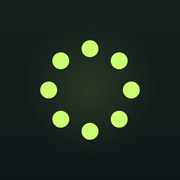
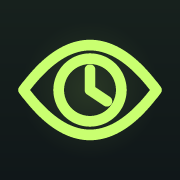
feat: finish website redesign

Changed region(s): [[0.0833, 0.1944, 0.9167, 0.8056]]

diff --git a/website/install.html b/website/install.html
@@ -1,13 +1,13 @@
 <!doctype html><html lang="en"><head>
-  <meta charset="utf-8"><meta name="viewport" content="width=device-width,initial-scale=1"><title>Install EyeRest — Sign and install the unsigned IPA</title><meta name="description" content="Download EyeRest's unsigned IPA, verify its SHA-256, then sign and install it on an iOS 17 or later iPhone using a tool you trust."><link rel="canonical" href="http://astear17.sino.tw/EyeRest/install.html">
-  <meta property="og:type" content="website"><meta property="og:title" content="Install EyeRest"><meta property="og:description" content="A careful guide to verifying, signing, and installing the unsigned EyeRest IPA."><meta property="og:url" content="http://astear17.sino.tw/EyeRest/install.html"><meta property="og:image" content="http://astear17.sino.tw/EyeRest/assets/og-image.png"><meta name="twitter:card" content="summary_large_image"><meta name="twitter:title" content="Install EyeRest"><meta name="twitter:description" content="Verify, sign, and install EyeRest's unsigned IPA."><meta name="twitter:image" content="http://astear17.sino.tw/EyeRest/assets/og-image.png">
+  <meta charset="utf-8"><meta name="viewport" content="width=device-width,initial-scale=1"><title>Install EyeRest — Sign and install the unsigned IPA</title><meta name="description" content="Download EyeRest's unsigned IPA, verify its SHA-256, then sign and install it on an iOS 17 or later iPhone using a tool you trust."><link rel="canonical" href="https://astear17.sino.tw/EyeRest/install.html">
+  <meta property="og:type" content="website"><meta property="og:title" content="Install EyeRest"><meta property="og:description" content="A careful guide to verifying, signing, and installing the unsigned EyeRest IPA."><meta property="og:url" content="https://astear17.sino.tw/EyeRest/install.html"><meta property="og:image" content="https://astear17.sino.tw/EyeRest/assets/og-image.png"><meta name="twitter:card" content="summary_large_image"><meta name="twitter:title" content="Install EyeRest"><meta name="twitter:description" content="Verify, sign, and install EyeRest's unsigned IPA."><meta name="twitter:image" content="https://astear17.sino.tw/EyeRest/assets/og-image.png">
   <meta name="theme-color" content="#101719"><link rel="icon" href="assets/favicon.svg" type="image/svg+xml"><link rel="apple-touch-icon" href="assets/apple-touch-icon.png"><link rel="preload" href="assets/fonts/dm-sans-latin.woff2" as="font" type="font/woff2" crossorigin><script>document.documentElement.dataset.theme=localStorage.getItem("eyerest-theme")||((matchMedia("(prefers-color-scheme: light)").matches)?"light":"dark")</script><link rel="stylesheet" href="assets/styles.css">
 </head><body><a class="skip-link" href="#main">Skip to content</a><header class="site-header"><div class="shell header-inner"><a class="brand" href="index.html" aria-label="EyeRest home"><span class="brand-mark" aria-hidden="true"></span>EyeRest</a><nav class="site-nav" data-navigation data-open="false" aria-label="Primary navigation"><a href="index.html">Overview</a><a href="install.html" aria-current="page">Install</a><a href="privacy.html">Privacy</a><a href="terms.html">Terms</a><a href="https://github.com/Astear17/EyeRest">GitHub</a></nav><div class="header-tools"><button class="icon-button theme-toggle" data-theme-toggle type="button" aria-label="Use light theme" aria-pressed="false"><svg viewBox="0 0 24 24" aria-hidden="true"><path d="M12 3v2m0 14v2M3 12h2m14 0h2M5.6 5.6 7 7m10 10 1.4 1.4M18.4 5.6 17 7M7 17l-1.4 1.4"/><circle cx="12" cy="12" r="4"/></svg></button><button class="icon-button menu-toggle" data-menu-toggle type="button" aria-label="Open navigation" aria-expanded="false"><svg viewBox="0 0 24 24" aria-hidden="true"><path d="M4 7h16M4 12h16M4 17h16"/></svg></button></div></div></header>
 <main id="main"><header class="page-hero"><div class="shell"><p class="eyebrow">Install outside the App Store</p><h1>Sign it yourself.<br><span class="serif">Keep control.</span></h1><p class="lede">EyeRest is not on the App Store and will not be. Releases contain an unsigned IPA: a packaged app that cannot run on your iPhone until you sign it with a tool and profile you trust.</p></div></header>
 <article class="prose narrow"><h2>Before you begin</h2><div class="callout"><p><strong>Unsigned means not ready to install.</strong></p><p>The release file contains the built EyeRest app but no usable device signature or provisioning profile. Never install a file whose source or SHA-256 you cannot verify.</p></div>
   <h2>1. Download the release</h2><div class="download-card"><div><h3>Latest EyeRest release</h3><p>Download <strong>EyeRest-unsigned.ipa</strong> and its matching <strong>.sha256</strong> file from GitHub Releases.</p></div><a class="button button-primary" href="https://github.com/Astear17/EyeRest/releases/latest">Open latest release</a></div>
   <h2>2. Verify SHA-256</h2><p>Calculate the IPA's SHA-256 locally and compare every character with the value in the downloaded <code>.sha256</code> file.</p><h3>macOS or Linux</h3><code class="code">shasum -a 256 EyeRest-unsigned.ipa</code><h3>Windows PowerShell</h3><code class="code">Get-FileHash .\EyeRest-unsigned.ipa -Algorithm SHA256</code><p>If the values differ, stop and delete the IPA. Download it again from the release page.</p>
-  <h2>3. Sign and install</h2><p>Choose a tool you trust. Examples include <a href="https://github.com/claration/feather">Feather</a>, <a href="https://ksign.live/">KSign</a>, <a href="https://sideloadly.io/">Sideloadly</a>, and <a href="https://altstore.io/">AltStore</a>. Each has different certificate, Apple ID, pairing, computer, and iOS requirements. Follow that tool's official documentation; EyeRest does not operate or endorse any of them.</p>
+  <h2>3. Sign and install</h2><p>Choose a tool you trust. Examples include <a href="https://github.com/claration/feather">Feather</a>, <a href="https://github.com/Nyasami/Ksign">KSign</a>, <a href="https://sideloadly.io/">Sideloadly</a>, and <a href="https://altstore.io/">AltStore</a>. Each has different certificate, Apple ID, pairing, computer, and iOS requirements. Follow that tool's official documentation; EyeRest does not operate or endorse any of them.</p>
   <div class="responsive-table"><table><caption>EyeRest signing-tool compatibility record</caption><thead><tr><th>Tool</th><th>Platform or approach</th><th>EyeRest status</th></tr></thead><tbody><tr><td>Feather</td><td>On-device signing with your certificate</td><td><span class="status">Not yet tested</span></td></tr><tr><td>KSign</td><td>On-device signing</td><td><span class="status">Not yet tested</span></td></tr><tr><td>Sideloadly</td><td>Computer-assisted signing and installation</td><td><span class="status">Not yet tested</span></td></tr><tr><td>AltStore</td><td>AltServer-assisted installation and refresh</td><td><span class="status">Not yet tested</span></td></tr></tbody></table></div>
   <h2>4. Finish on iPhone</h2><ol><li>If iOS asks, open <strong>Settings → Privacy &amp; Security → Developer Mode</strong>, enable it, and follow the restart confirmation.</li><li>Open EyeRest.</li><li>Read the welcome screen, tap <strong>Get started</strong>, and allow notifications if you want reminders.</li><li>Choose active days, quiet hours, and reminder intervals in Settings.</li></ol>
   <h2>What to expect</h2><ul><li><strong>Free Apple ID signatures expire after about seven days.</strong> Re-sign before or after expiry using the same tool and identity where possible.</li><li>A signing tool may rewrite EyeRest's bundle identifier. A changed identifier creates a separate install with separate local data, so use <strong>Export backup</strong> before reinstalling.</li><li>Time Sensitive delivery depends on the signing profile and iPhone settings. EyeRest falls back to normal notifications when the capability is unavailable.</li><li>iOS limits pending notifications. EyeRest keeps a finite queue, so open the app now and then to replenish it.</li></ul>

diff --git a/website/terms.html b/website/terms.html
@@ -1,4 +1,4 @@
-<!doctype html><html lang="en"><head><meta charset="utf-8"><meta name="viewport" content="width=device-width,initial-scale=1"><title>EyeRest Terms — General wellness software</title><meta name="description" content="Terms for EyeRest: provided as is, general wellness information only, and sideloading at your own risk."><link rel="canonical" href="http://astear17.sino.tw/EyeRest/terms.html"><meta property="og:type" content="website"><meta property="og:title" content="EyeRest Terms"><meta property="og:description" content="General wellness, sideloading, and warranty terms for EyeRest."><meta property="og:url" content="http://astear17.sino.tw/EyeRest/terms.html"><meta property="og:image" content="http://astear17.sino.tw/EyeRest/assets/og-image.png"><meta name="twitter:card" content="summary_large_image"><meta name="twitter:title" content="EyeRest Terms"><meta name="twitter:description" content="General wellness, sideloading, and warranty terms."><meta name="twitter:image" content="http://astear17.sino.tw/EyeRest/assets/og-image.png"><meta name="theme-color" content="#101719"><link rel="icon" href="assets/favicon.svg" type="image/svg+xml"><link rel="apple-touch-icon" href="assets/apple-touch-icon.png"><link rel="preload" href="assets/fonts/dm-sans-latin.woff2" as="font" type="font/woff2" crossorigin><script>document.documentElement.dataset.theme=localStorage.getItem("eyerest-theme")||((matchMedia("(prefers-color-scheme: light)").matches)?"light":"dark")</script><link rel="stylesheet" href="assets/styles.css"></head>
+<!doctype html><html lang="en"><head><meta charset="utf-8"><meta name="viewport" content="width=device-width,initial-scale=1"><title>EyeRest Terms — General wellness software</title><meta name="description" content="Terms for EyeRest: provided as is, general wellness information only, and sideloading at your own risk."><link rel="canonical" href="https://astear17.sino.tw/EyeRest/terms.html"><meta property="og:type" content="website"><meta property="og:title" content="EyeRest Terms"><meta property="og:description" content="General wellness, sideloading, and warranty terms for EyeRest."><meta property="og:url" content="https://astear17.sino.tw/EyeRest/terms.html"><meta property="og:image" content="https://astear17.sino.tw/EyeRest/assets/og-image.png"><meta name="twitter:card" content="summary_large_image"><meta name="twitter:title" content="EyeRest Terms"><meta name="twitter:description" content="General wellness, sideloading, and warranty terms."><meta name="twitter:image" content="https://astear17.sino.tw/EyeRest/assets/og-image.png"><meta name="theme-color" content="#101719"><link rel="icon" href="assets/favicon.svg" type="image/svg+xml"><link rel="apple-touch-icon" href="assets/apple-touch-icon.png"><link rel="preload" href="assets/fonts/dm-sans-latin.woff2" as="font" type="font/woff2" crossorigin><script>document.documentElement.dataset.theme=localStorage.getItem("eyerest-theme")||((matchMedia("(prefers-color-scheme: light)").matches)?"light":"dark")</script><link rel="stylesheet" href="assets/styles.css"></head>
 <body><a class="skip-link" href="#main">Skip to content</a><header class="site-header"><div class="shell header-inner"><a class="brand" href="index.html" aria-label="EyeRest home"><span class="brand-mark" aria-hidden="true"></span>EyeRest</a><nav class="site-nav" data-navigation data-open="false" aria-label="Primary navigation"><a href="index.html">Overview</a><a href="install.html">Install</a><a href="privacy.html">Privacy</a><a href="terms.html" aria-current="page">Terms</a><a href="https://github.com/Astear17/EyeRest">GitHub</a></nav><div class="header-tools"><button class="icon-button theme-toggle" data-theme-toggle type="button" aria-label="Use light theme" aria-pressed="false"><svg viewBox="0 0 24 24" aria-hidden="true"><path d="M12 3v2m0 14v2M3 12h2m14 0h2M5.6 5.6 7 7m10 10 1.4 1.4M18.4 5.6 17 7M7 17l-1.4 1.4"/><circle cx="12" cy="12" r="4"/></svg></button><button class="icon-button menu-toggle" data-menu-toggle type="button" aria-label="Open navigation" aria-expanded="false"><svg viewBox="0 0 24 24" aria-hidden="true"><path d="M4 7h16M4 12h16M4 17h16"/></svg></button></div></div></header>
 <main id="main"><header class="page-hero"><div class="shell"><p class="eyebrow">Terms</p><h1>Use EyeRest<br><span class="serif">with care.</span></h1><p class="lede">These terms apply to the EyeRest app, its release files, and this website. Last updated November 21, 2026.</p></div></header><article class="prose narrow">
 <h2>General wellness only</h2><p>EyeRest provides reminders, guided breaks, and general wellness information. It is not medical advice, a medical device, diagnosis, treatment, or a substitute for professional care. Stop an activity if anything hurts. Seek qualified medical advice for symptoms or concerns.</p>

diff --git a/website/privacy.html b/website/privacy.html
@@ -1,4 +1,4 @@
-<!doctype html><html lang="en"><head><meta charset="utf-8"><meta name="viewport" content="width=device-width,initial-scale=1"><title>EyeRest Privacy — Local, offline, and account-free</title><meta name="description" content="EyeRest stores reminder settings, preferences, and activity records locally and makes no network requests from the app."><link rel="canonical" href="http://astear17.sino.tw/EyeRest/privacy.html"><meta property="og:type" content="website"><meta property="og:title" content="EyeRest Privacy"><meta property="og:description" content="What EyeRest stores on your iPhone and what the project website does."><meta property="og:url" content="http://astear17.sino.tw/EyeRest/privacy.html"><meta property="og:image" content="http://astear17.sino.tw/EyeRest/assets/og-image.png"><meta name="twitter:card" content="summary_large_image"><meta name="twitter:title" content="EyeRest Privacy"><meta name="twitter:description" content="Local app data, no app network requests, and no account."><meta name="twitter:image" content="http://astear17.sino.tw/EyeRest/assets/og-image.png"><meta name="theme-color" content="#101719"><link rel="icon" href="assets/favicon.svg" type="image/svg+xml"><link rel="apple-touch-icon" href="assets/apple-touch-icon.png"><link rel="preload" href="assets/fonts/dm-sans-latin.woff2" as="font" type="font/woff2" crossorigin><script>document.documentElement.dataset.theme=localStorage.getItem("eyerest-theme")||((matchMedia("(prefers-color-scheme: light)").matches)?"light":"dark")</script><link rel="stylesheet" href="assets/styles.css"></head>
+<!doctype html><html lang="en"><head><meta charset="utf-8"><meta name="viewport" content="width=device-width,initial-scale=1"><title>EyeRest Privacy — Local, offline, and account-free</title><meta name="description" content="EyeRest stores reminder settings, preferences, and activity records locally and makes no network requests from the app."><link rel="canonical" href="https://astear17.sino.tw/EyeRest/privacy.html"><meta property="og:type" content="website"><meta property="og:title" content="EyeRest Privacy"><meta property="og:description" content="What EyeRest stores on your iPhone and what the project website does."><meta property="og:url" content="https://astear17.sino.tw/EyeRest/privacy.html"><meta property="og:image" content="https://astear17.sino.tw/EyeRest/assets/og-image.png"><meta name="twitter:card" content="summary_large_image"><meta name="twitter:title" content="EyeRest Privacy"><meta name="twitter:description" content="Local app data, no app network requests, and no account."><meta name="twitter:image" content="https://astear17.sino.tw/EyeRest/assets/og-image.png"><meta name="theme-color" content="#101719"><link rel="icon" href="assets/favicon.svg" type="image/svg+xml"><link rel="apple-touch-icon" href="assets/apple-touch-icon.png"><link rel="preload" href="assets/fonts/dm-sans-latin.woff2" as="font" type="font/woff2" crossorigin><script>document.documentElement.dataset.theme=localStorage.getItem("eyerest-theme")||((matchMedia("(prefers-color-scheme: light)").matches)?"light":"dark")</script><link rel="stylesheet" href="assets/styles.css"></head>
 <body><a class="skip-link" href="#main">Skip to content</a><header class="site-header"><div class="shell header-inner"><a class="brand" href="index.html" aria-label="EyeRest home"><span class="brand-mark" aria-hidden="true"></span>EyeRest</a><nav class="site-nav" data-navigation data-open="false" aria-label="Primary navigation"><a href="index.html">Overview</a><a href="install.html">Install</a><a href="privacy.html" aria-current="page">Privacy</a><a href="terms.html">Terms</a><a href="https://github.com/Astear17/EyeRest">GitHub</a></nav><div class="header-tools"><button class="icon-button theme-toggle" data-theme-toggle type="button" aria-label="Use light theme" aria-pressed="false"><svg viewBox="0 0 24 24" aria-hidden="true"><path d="M12 3v2m0 14v2M3 12h2m14 0h2M5.6 5.6 7 7m10 10 1.4 1.4M18.4 5.6 17 7M7 17l-1.4 1.4"/><circle cx="12" cy="12" r="4"/></svg></button><button class="icon-button menu-toggle" data-menu-toggle type="button" aria-label="Open navigation" aria-expanded="false"><svg viewBox="0 0 24 24" aria-hidden="true"><path d="M4 7h16M4 12h16M4 17h16"/></svg></button></div></div></header>
 <main id="main"><header class="page-hero"><div class="shell"><p class="eyebrow">Privacy</p><h1>Your routine stays<br><span class="serif">on your iPhone.</span></h1><p class="lede">This notice describes the EyeRest app and this project website. Last updated November 21, 2026.</p></div></header><article class="prose narrow">
 <h2>The EyeRest app</h2><p>EyeRest is an offline-first iPhone app. The app code makes no network requests and includes no accounts, advertising, analytics, tracking, or third-party runtime services.</p>

diff --git a/website/404.html b/website/404.html
@@ -1,2 +1,2 @@
-<!doctype html><html lang="en"><head><meta charset="utf-8"><meta name="viewport" content="width=device-width,initial-scale=1"><title>Page not found — EyeRest</title><meta name="description" content="The requested EyeRest page could not be found."><link rel="canonical" href="http://astear17.sino.tw/EyeRest/404.html"><meta property="og:type" content="website"><meta property="og:title" content="Page not found — EyeRest"><meta property="og:description" content="Return to the EyeRest overview or installation guide."><meta property="og:url" content="http://astear17.sino.tw/EyeRest/404.html"><meta property="og:image" content="http://astear17.sino.tw/EyeRest/assets/og-image.png"><meta name="twitter:card" content="summary_large_image"><meta name="twitter:title" content="Page not found — EyeRest"><meta name="twitter:description" content="Return to the EyeRest overview."><meta name="twitter:image" content="http://astear17.sino.tw/EyeRest/assets/og-image.png"><meta name="theme-color" content="#101719"><link rel="icon" href="assets/favicon.svg" type="image/svg+xml"><link rel="apple-touch-icon" href="assets/apple-touch-icon.png"><link rel="preload" href="assets/fonts/dm-sans-latin.woff2" as="font" type="font/woff2" crossorigin><script>document.documentElement.dataset.theme=localStorage.getItem("eyerest-theme")||((matchMedia("(prefers-color-scheme: light)").matches)?"light":"dark")</script><link rel="stylesheet" href="assets/styles.css"></head>
+<!doctype html><html lang="en"><head><meta charset="utf-8"><meta name="viewport" content="width=device-width,initial-scale=1"><title>Page not found — EyeRest</title><meta name="description" content="The requested EyeRest page could not be found."><link rel="canonical" href="https://astear17.sino.tw/EyeRest/404.html"><meta property="og:type" content="website"><meta property="og:title" content="Page not found — EyeRest"><meta property="og:description" content="Return to the EyeRest overview or installation guide."><meta property="og:url" content="https://astear17.sino.tw/EyeRest/404.html"><meta property="og:image" content="https://astear17.sino.tw/EyeRest/assets/og-image.png"><meta name="twitter:card" content="summary_large_image"><meta name="twitter:title" content="Page not found — EyeRest"><meta name="twitter:description" content="Return to the EyeRest overview."><meta name="twitter:image" content="https://astear17.sino.tw/EyeRest/assets/og-image.png"><meta name="theme-color" content="#101719"><link rel="icon" href="assets/favicon.svg" type="image/svg+xml"><link rel="apple-touch-icon" href="assets/apple-touch-icon.png"><link rel="preload" href="assets/fonts/dm-sans-latin.woff2" as="font" type="font/woff2" crossorigin><script>document.documentElement.dataset.theme=localStorage.getItem("eyerest-theme")||((matchMedia("(prefers-color-scheme: light)").matches)?"light":"dark")</script><link rel="stylesheet" href="assets/styles.css"></head>
 <body><a class="skip-link" href="#main">Skip to content</a><header class="site-header"><div class="shell header-inner"><a class="brand" href="index.html" aria-label="EyeRest home"><span class="brand-mark" aria-hidden="true"></span>EyeRest</a><nav class="site-nav" data-navigation data-open="false" aria-label="Primary navigation"><a href="index.html">Overview</a><a href="install.html">Install</a><a href="privacy.html">Privacy</a><a href="terms.html">Terms</a></nav><div class="header-tools"><button class="icon-button theme-toggle" data-theme-toggle type="button" aria-label="Use light theme" aria-pressed="false"><svg viewBox="0 0 24 24" aria-hidden="true"><path d="M12 3v2m0 14v2M3 12h2m14 0h2M5.6 5.6 7 7m10 10 1.4 1.4M18.4 5.6 17 7M7 17l-1.4 1.4"/><circle cx="12" cy="12" r="4"/></svg></button><button class="icon-button menu-toggle" data-menu-toggle type="button" aria-label="Open navigation" aria-expanded="false"><svg viewBox="0 0 24 24" aria-hidden="true"><path d="M4 7h16M4 12h16M4 17h16"/></svg></button></div></div></header><main id="main"><section class="page-hero"><div class="narrow"><p class="eyebrow">404</p><h1>This page took<br><span class="serif">a break.</span></h1><p class="lede">The address does not point to a page on the EyeRest site.</p><div class="hero-actions"><a class="button button-primary" href="index.html">Return home</a><a class="button" href="install.html">Open install guide</a></div></div></section></main><footer class="site-footer"><div class="shell footer-bottom"><span>© 2026 EyeRest</span><span>Not affiliated with Apple.</span></div></footer><script src="assets/main.js"></script></body></html>

diff --git a/website/assets/styles.css b/website/assets/styles.css
@@ -17,3 +17,7 @@ html[data-theme="light"]{color-scheme:light;--page:#f5f6f1;--panel:#e9eee7;--pan
 @media(max-width:850px){.shell,.narrow{width:calc(100% - 32px)}.header-inner{min-height:68px}.menu-toggle{display:grid}.site-nav{display:none;position:absolute;top:68px;left:0;right:0;margin:0;padding:10px 16px 18px;background:var(--page);border-bottom:1px solid var(--line)}.site-nav[data-open="true"]{display:flex;flex-direction:column;align-items:stretch}.site-nav a{padding:.7rem 1rem}.theme-toggle{margin-left:auto}.section{padding:85px 0}.download-card{grid-template-columns:1fr}.page-hero{padding:65px 0 55px}}
 @media(max-width:520px){h1{font-size:clamp(3.3rem,17vw,5rem)}.hero{padding-bottom:60px}.hero-art{min-height:480px}.device{width:236px;height:480px;border-radius:40px}.ring{width:145px;height:145px;margin:24px auto}.ring::before{width:122px;height:122px}.illustration-label{bottom:0}.reminder-grid{grid-template-columns:1fr}.feature-card,.feature-card:nth-child(2){min-height:230px;border-left:0;border-top:1px solid var(--line)}.feature-card:first-child{border-top:0}.footer-grid{grid-template-columns:1fr}.footer-grid>div:first-child{grid-column:auto}.footer-bottom{flex-direction:column}.hero-actions{align-items:stretch;flex-direction:column}.button{width:100%}}
 @media(prefers-reduced-motion:reduce){html{scroll-behavior:auto}*,*::before,*::after{animation:none!important;transition:none!important}.reveal{opacity:1;transform:none}}html:not(.js) .reveal{opacity:1;transform:none}
+.brand-mark{position:relative;width:24px;height:24px;flex:0 0 24px;border:2px solid var(--lime);border-radius:50%;background:none}.brand-mark::before,.brand-mark::after{content:"";position:absolute;left:50%;top:50%;border-radius:99px;background:var(--lime);transform-origin:0 50%}.brand-mark::before{width:2px;height:7px;transform:translate(-1px,-7px)}.brand-mark::after{width:7px;height:2px;transform:translate(0,-1px) rotate(34deg)}
+@media(max-width:650px){.responsive-table{overflow:visible}.responsive-table table{min-width:0}.responsive-table thead{position:absolute;width:1px;height:1px;padding:0;margin:-1px;overflow:hidden;clip:rect(0,0,0,0);white-space:nowrap;border:0}.responsive-table tbody,.responsive-table tr,.responsive-table td{display:block;width:100%}.responsive-table tr{margin-bottom:12px;padding:16px;border:1px solid var(--line);background:var(--panel)}.responsive-table td{padding:3px 0;border:0}.responsive-table td:first-child{color:var(--ink);font-weight:700}.responsive-table td:nth-child(2)::before,.responsive-table td:nth-child(3)::before{display:block;color:var(--faint);font-size:.78rem;font-weight:700;letter-spacing:.06em;text-transform:uppercase}.responsive-table td:nth-child(2)::before{content:"Approach"}.responsive-table td:nth-child(3)::before{content:"EyeRest status"}.responsive-table caption{padding-bottom:12px;text-align:left;color:var(--ink);font-weight:700}}
+body{min-height:100vh;display:flex;flex-direction:column}main{flex:1}
+.prose a.button-primary{color:#16221d}

diff --git a/website/index.html b/website/index.html
@@ -4,9 +4,9 @@
   <meta charset="utf-8"><meta name="viewport" content="width=device-width,initial-scale=1">
   <title>EyeRest — Gentle reminders and guided breaks for iPhone</title>
   <meta name="description" content="EyeRest is a private, offline iPhone app with five gentle reminders, guided breaks, and activity history. Download the unsigned IPA and sign it yourself.">
-  <link rel="canonical" href="http://astear17.sino.tw/EyeRest/">
-  <meta property="og:type" content="website"><meta property="og:title" content="EyeRest — Give your eyes a moment."><meta property="og:description" content="Five gentle reminders, guided breaks, and private on-device activity history for iPhone."><meta property="og:url" content="http://astear17.sino.tw/EyeRest/"><meta property="og:image" content="http://astear17.sino.tw/EyeRest/assets/og-image.png">
-  <meta name="twitter:card" content="summary_large_image"><meta name="twitter:title" content="EyeRest — Give your eyes a moment."><meta name="twitter:description" content="A private, offline reminder and guided-break app for iPhone."><meta name="twitter:image" content="http://astear17.sino.tw/EyeRest/assets/og-image.png">
+  <link rel="canonical" href="https://astear17.sino.tw/EyeRest/">
+  <meta property="og:type" content="website"><meta property="og:title" content="EyeRest — Give your eyes a moment."><meta property="og:description" content="Five gentle reminders, guided breaks, and private on-device activity history for iPhone."><meta property="og:url" content="https://astear17.sino.tw/EyeRest/"><meta property="og:image" content="https://astear17.sino.tw/EyeRest/assets/og-image.png">
+  <meta name="twitter:card" content="summary_large_image"><meta name="twitter:title" content="EyeRest — Give your eyes a moment."><meta name="twitter:description" content="A private, offline reminder and guided-break app for iPhone."><meta name="twitter:image" content="https://astear17.sino.tw/EyeRest/assets/og-image.png">
   <meta name="theme-color" content="#101719"><link rel="icon" href="assets/favicon.svg" type="image/svg+xml"><link rel="apple-touch-icon" href="assets/apple-touch-icon.png"><link rel="preload" href="assets/fonts/dm-sans-latin.woff2" as="font" type="font/woff2" crossorigin>
   <script>document.documentElement.dataset.theme=localStorage.getItem("eyerest-theme")||((matchMedia("(prefers-color-scheme: light)").matches)?"light":"dark")</script>
   <link rel="stylesheet" href="assets/styles.css">

diff --git a/website/README.md b/website/README.md
@@ -2,7 +2,7 @@
 
 This directory is the static GitHub Pages site for EyeRest. It has no build step and makes no runtime requests for fonts, analytics, or application data.
 
-The configured Pages URL is `http://astear17.sino.tw/EyeRest/`; the project base path is `/EyeRest/`. All in-site links are relative so the same files work on the custom Pages path and in a local static server.
+The configured Pages URL is `https://astear17.sino.tw/EyeRest/`; the project base path is `/EyeRest/`. All in-site links are relative so the same files work on the custom Pages path and in a local static server.
 
 Run the dependency-free checks from the repository root:
 
